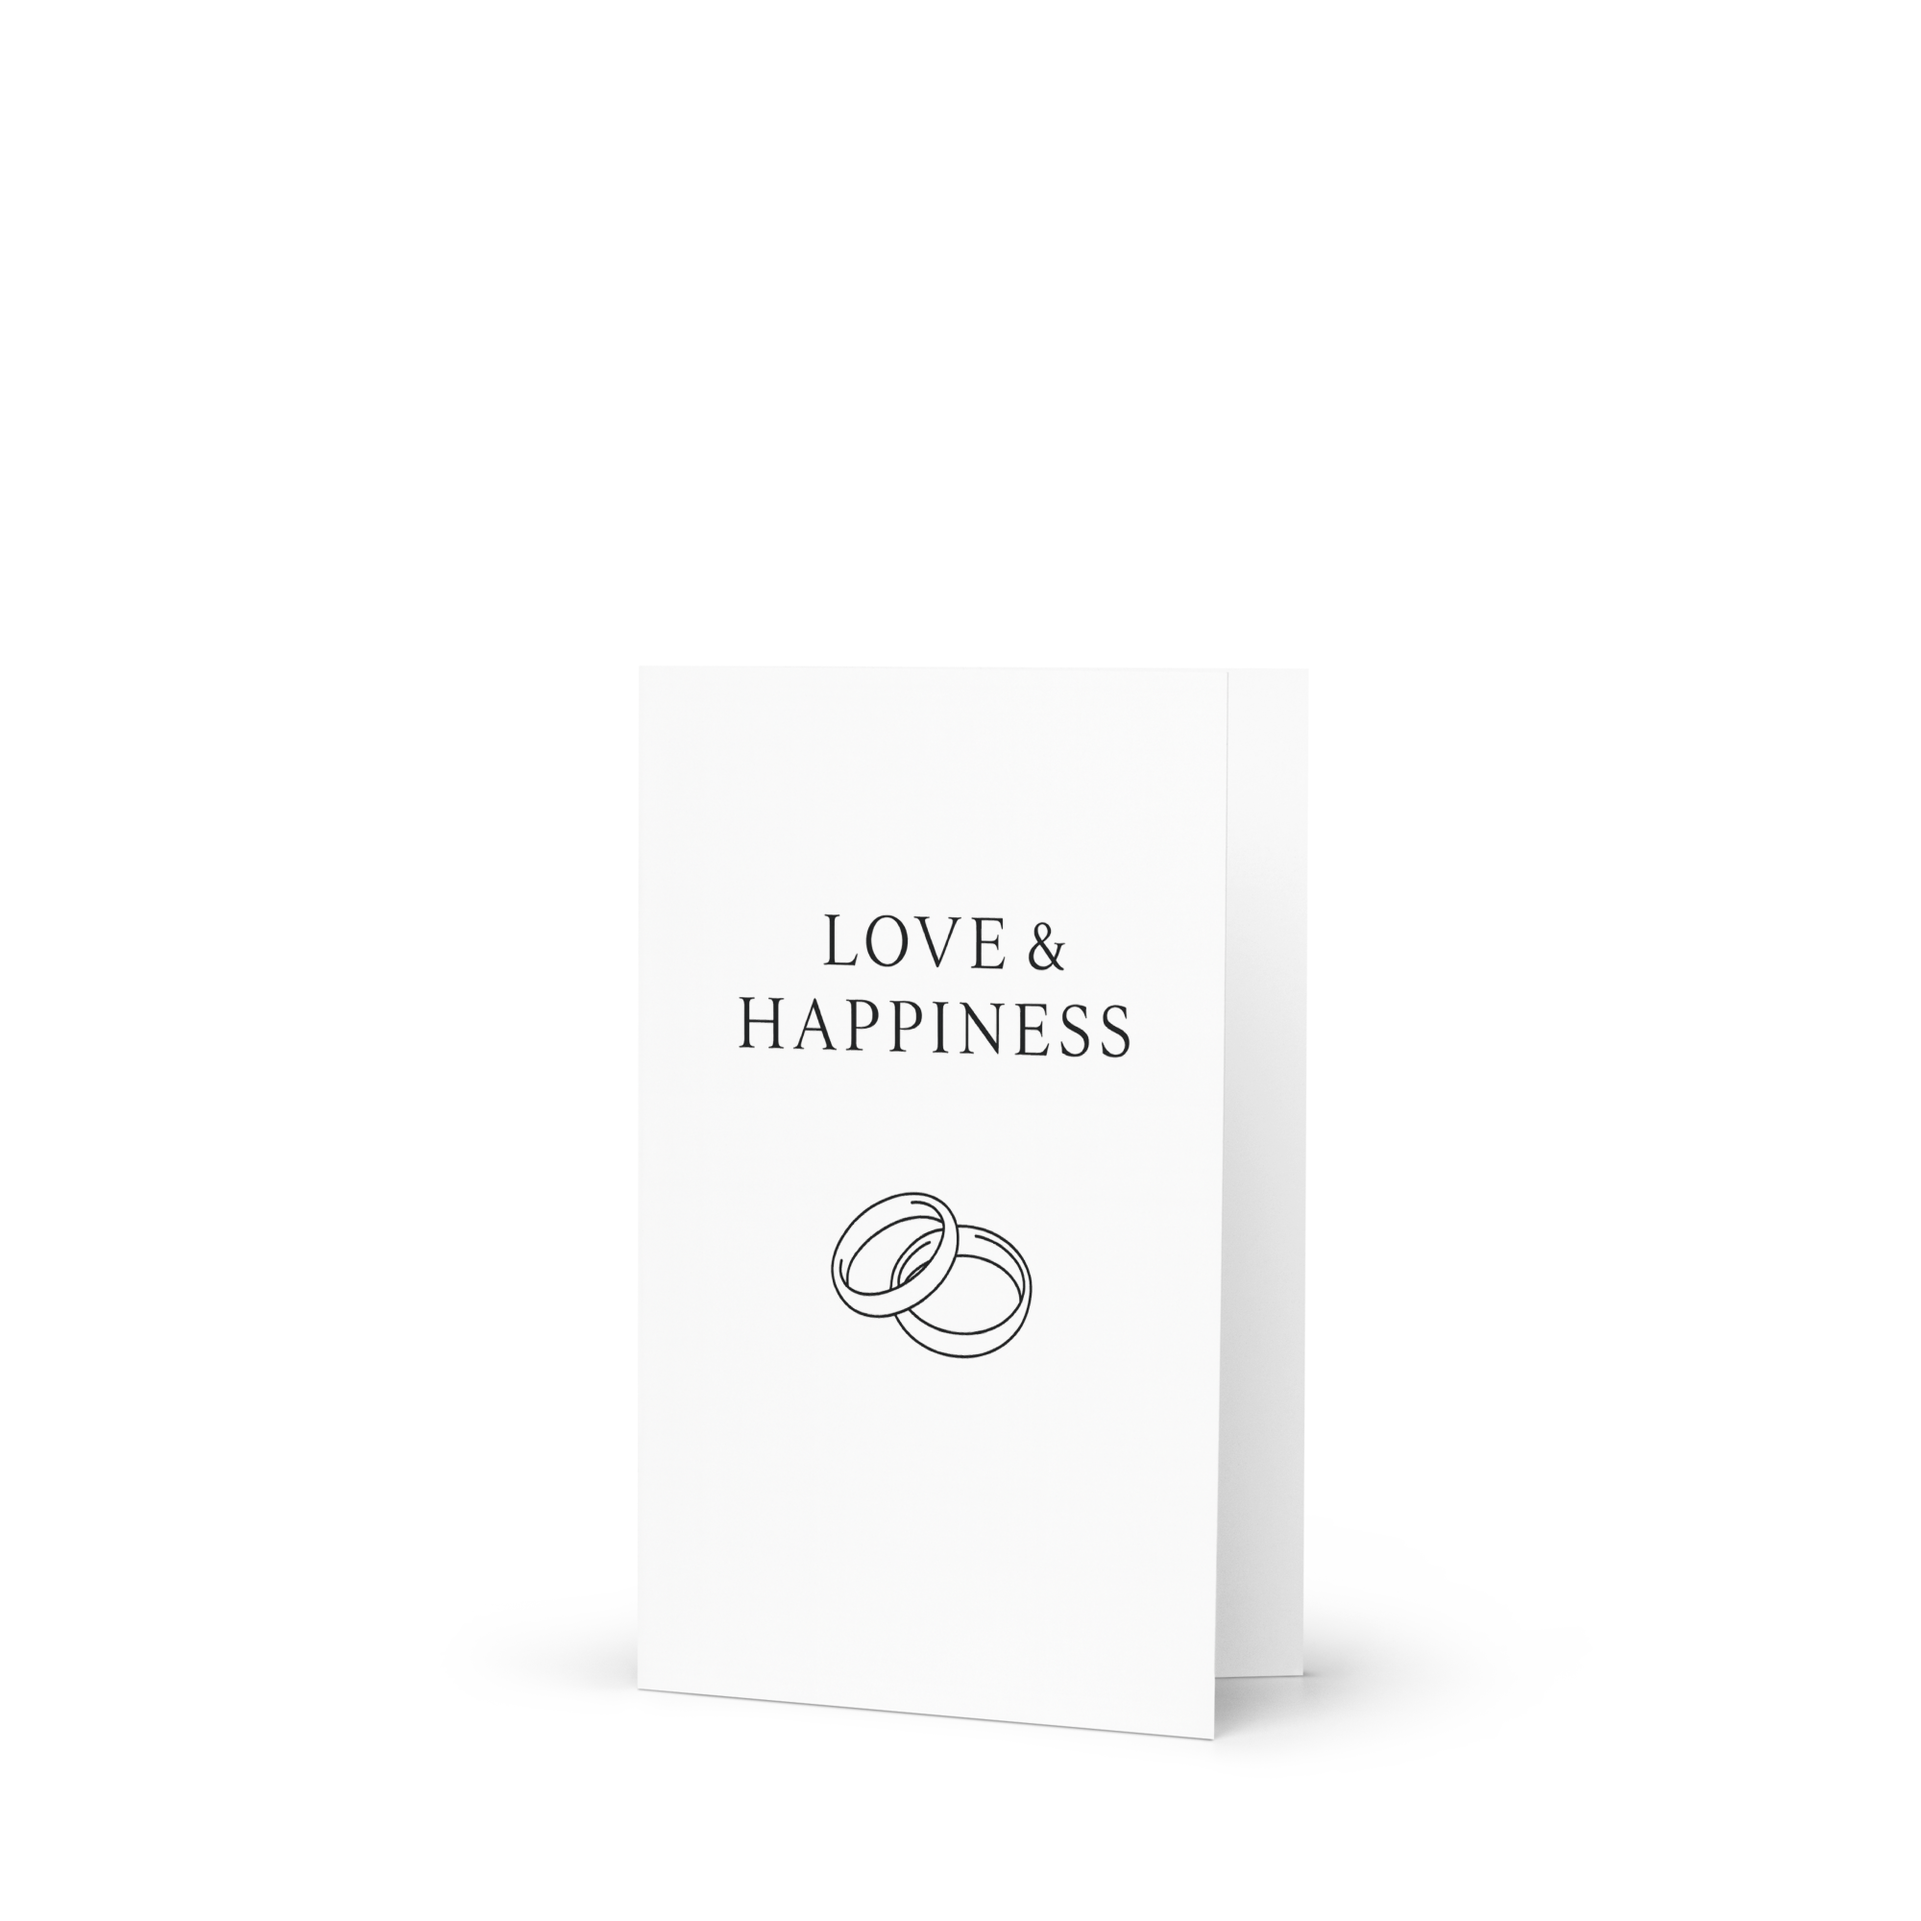
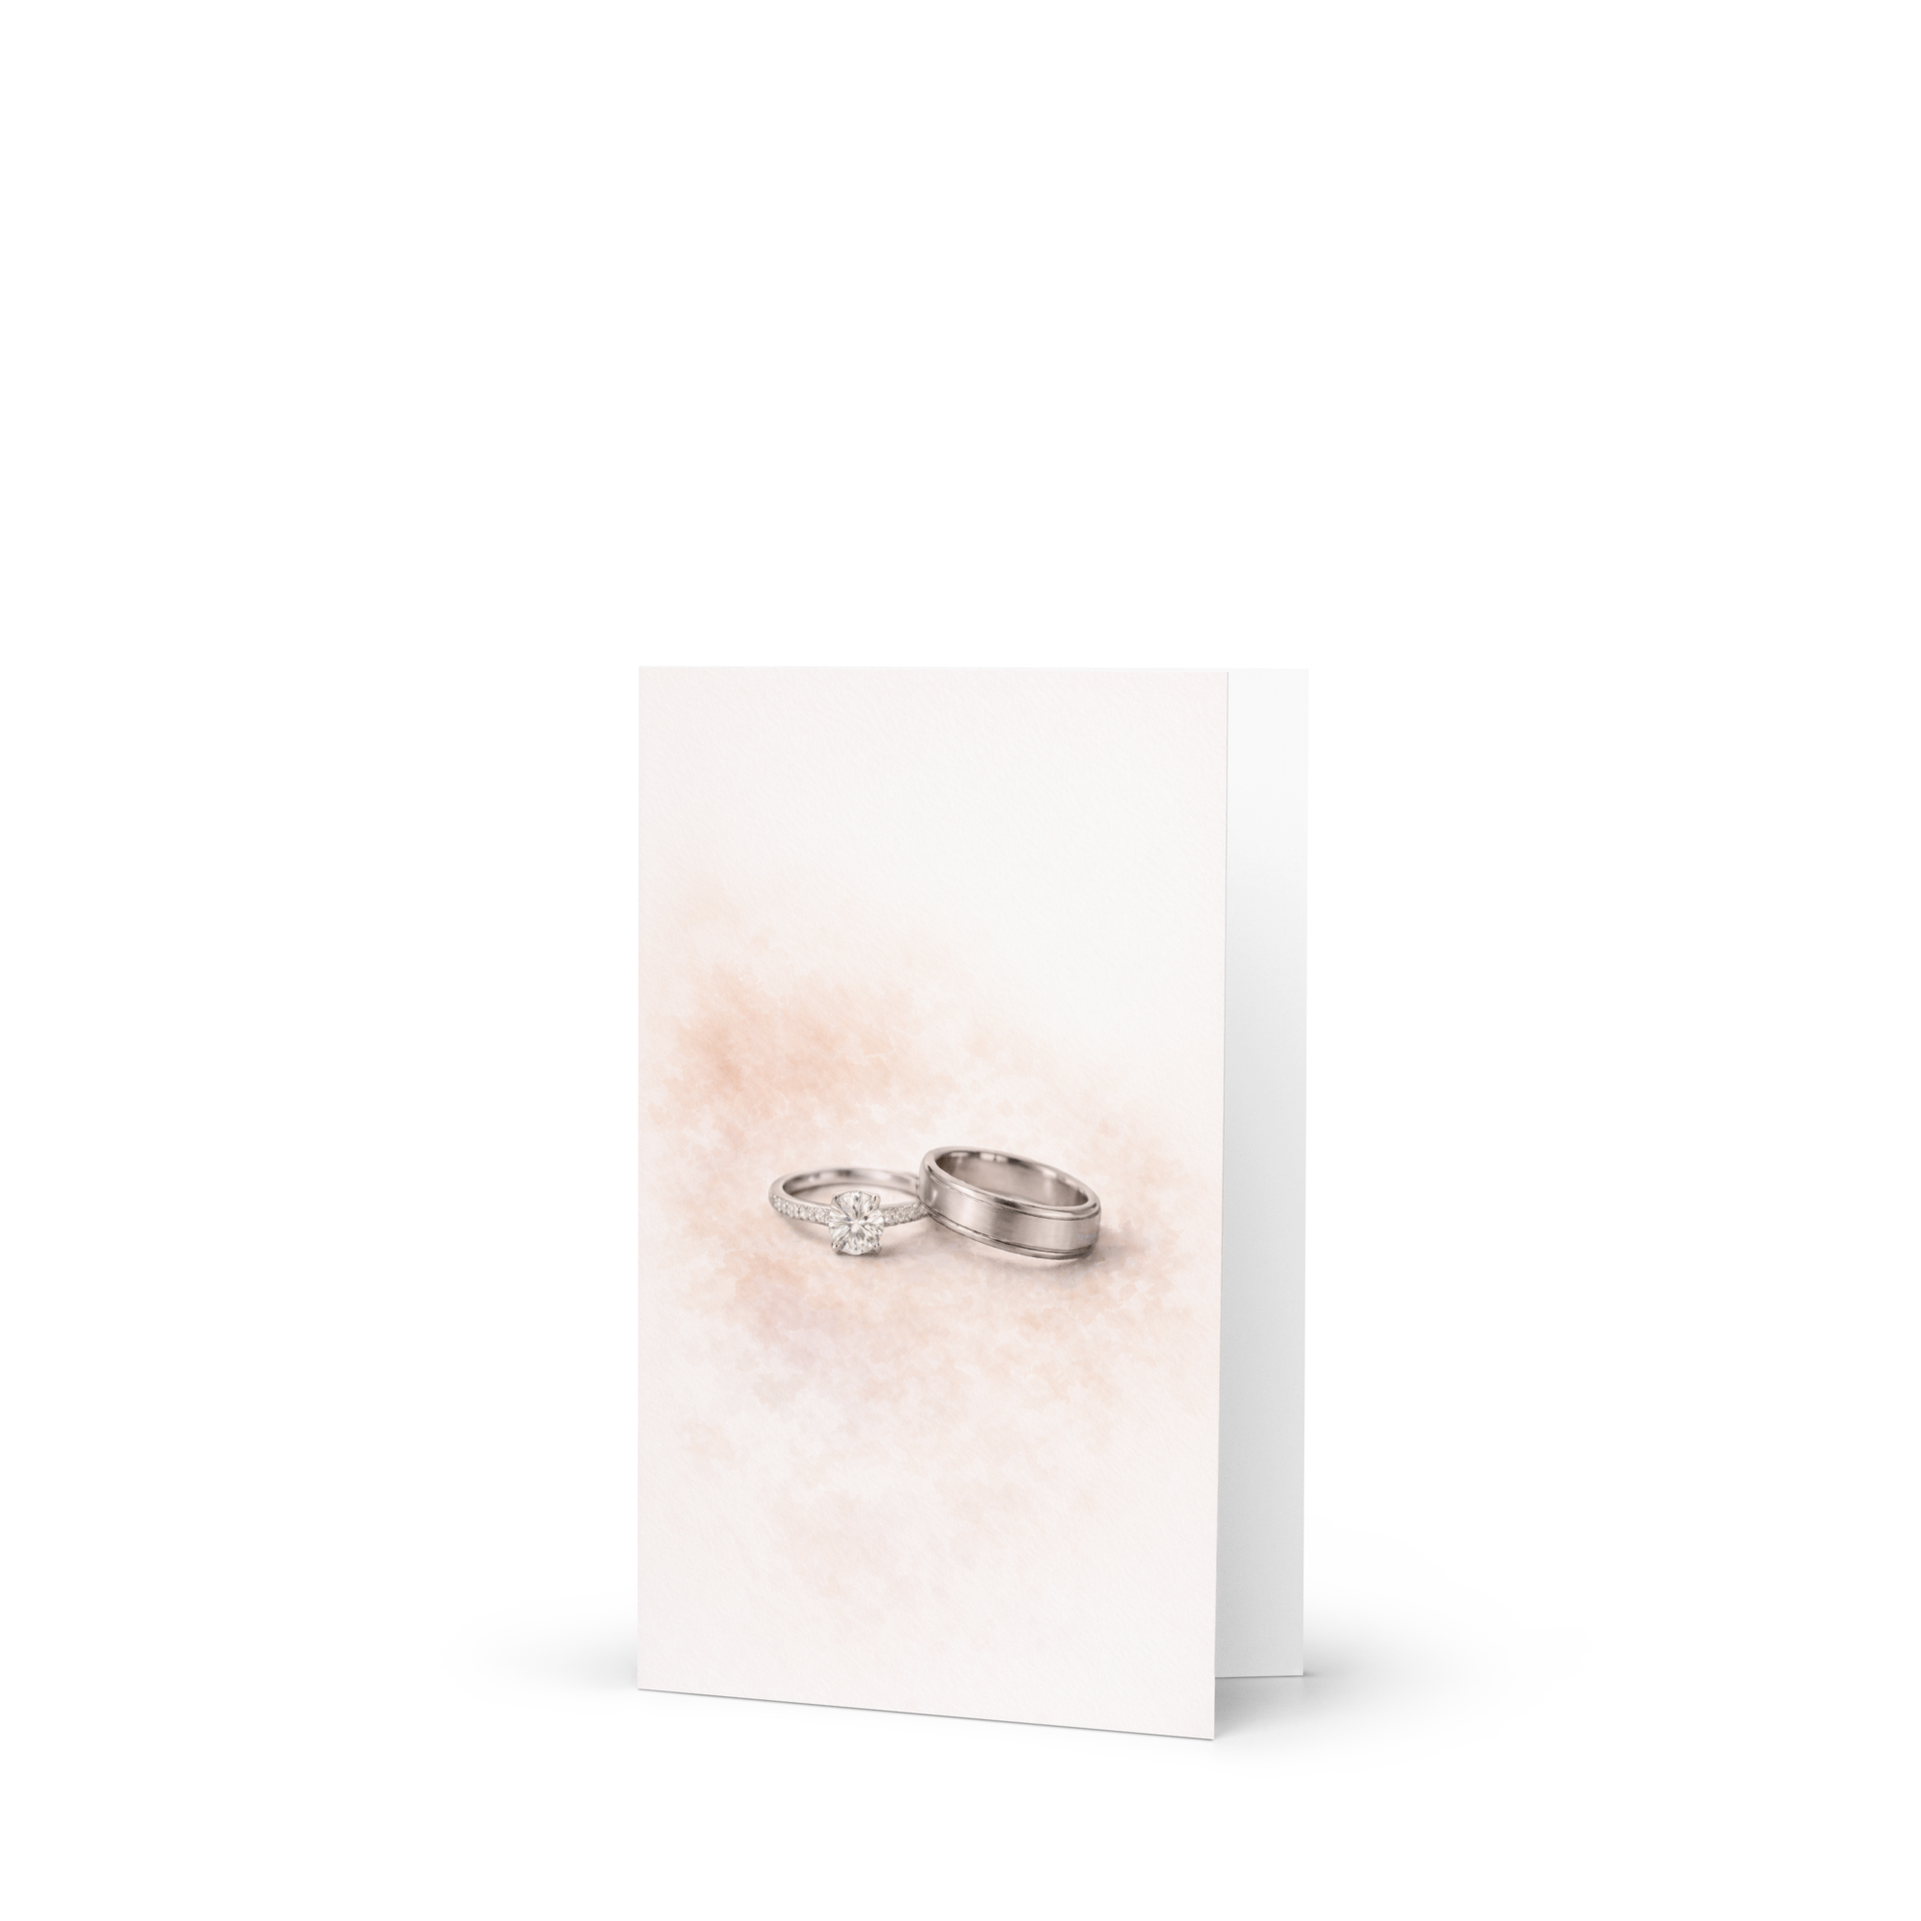
Updating cover art for 2H&2H

Changed region(s): [[0.341, 0.465, 0.62, 0.744]]

diff --git a/lib/cardTemplates.ts b/lib/cardTemplates.ts
@@ -76,7 +76,7 @@ export const CARD_TEMPLATES: CardTemplate[] = [
     stripePriceId: "price_1SWJVN0btTMST7LgTBriW2Am", // legacy single price
     printfulSyncVariantId: 5079220284,
     printfulShippingVariantId: 14457,
-    printfulCoverFileId: 909170418,
+    printfulCoverFileId: 929720683,
     printfulBackFileId:  927653597,
     images: [
       "/LoveandHappinessImages/LoveandHappinessMockup1.png",
